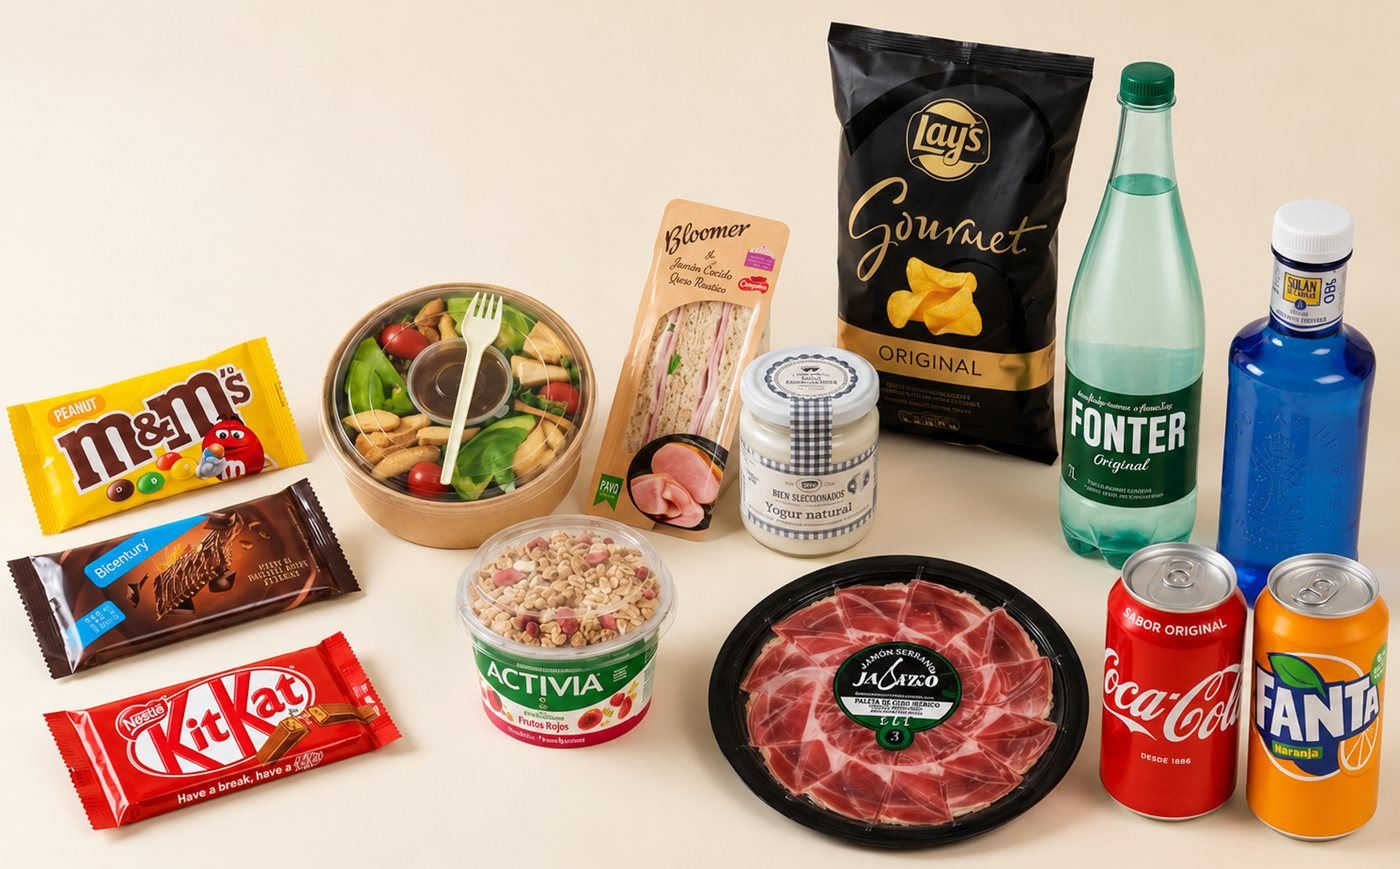
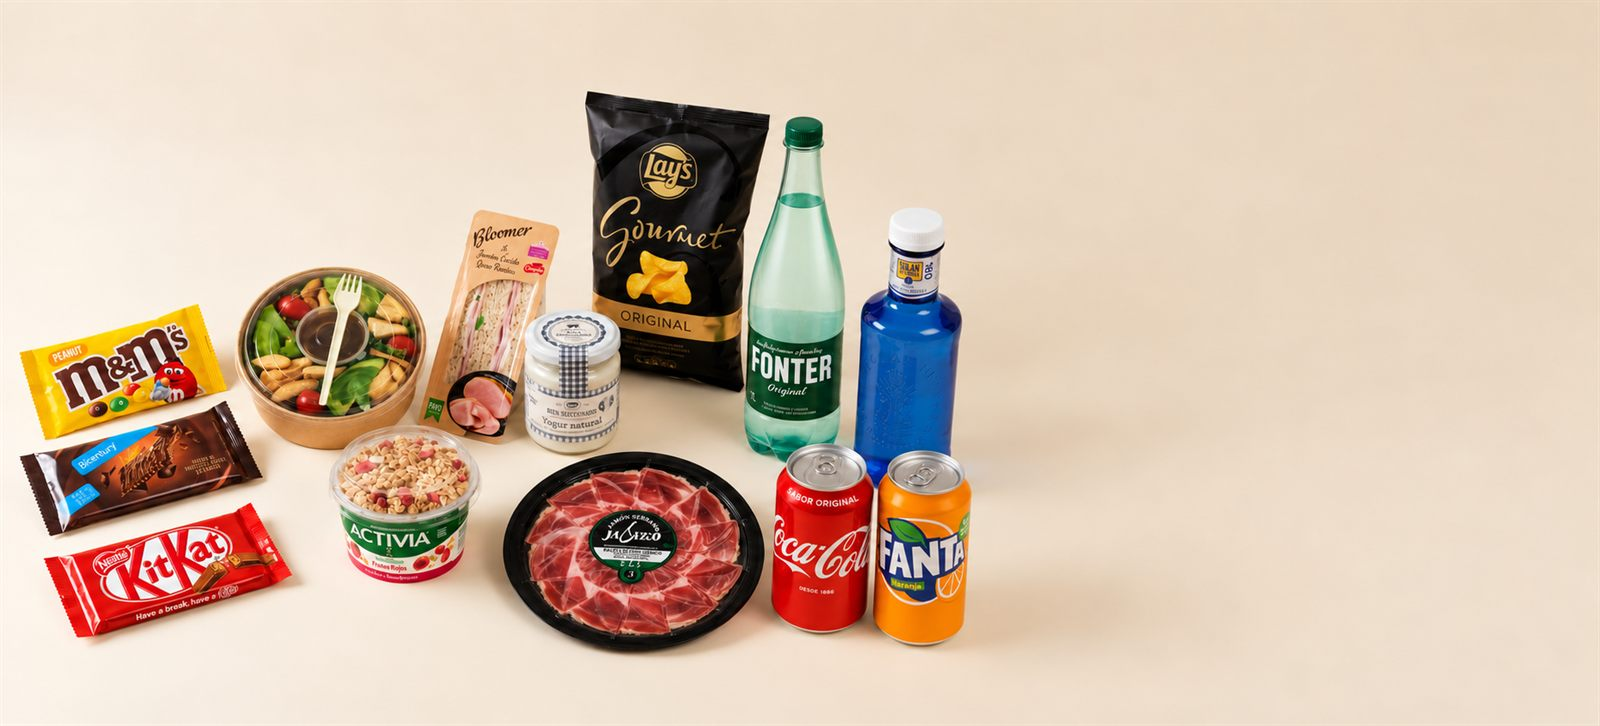
Foto nueva de autogestion, con la misma composicion
Misma pauta que la de Ametller: producto en el tercio izquierdo y fondo libre
a la derecha, asi que tambien lleva hueco:true. Con las dos fotos compuestas
igual, los dos modelos comparten tratamiento y la pestaña deja de cambiar la
forma de la pieza: solo cambia lo que hay dentro.

1862x845 reescalada a 1600x726 y a JPEG de calidad 82: 118 KB.

diff --git a/assets/js/datos.js b/assets/js/datos.js
@@ -73,7 +73,8 @@ window.SMARTSHOP = {
   fotosModelo: {
     autogestion: {
       src: "assets/img/gama-productos.jpg",
-      alt: "Surtido de una SmartShop: chocolatinas, un bol de ensalada, un yogur con frutos rojos, un sándwich de jamón y queso, un tarro de yogur natural, jamón serrano, patatas fritas, dos aguas embotelladas y dos refrescos."
+      alt: "Surtido de una SmartShop: chocolatinas, un bol de ensalada, un yogur con frutos rojos, un sándwich de jamón y queso, un tarro de yogur natural, jamón serrano, patatas fritas, dos aguas embotelladas y dos refrescos.",
+      hueco: true
     },
     ametller: {
       src: "assets/img/gama-ametller.jpg",
